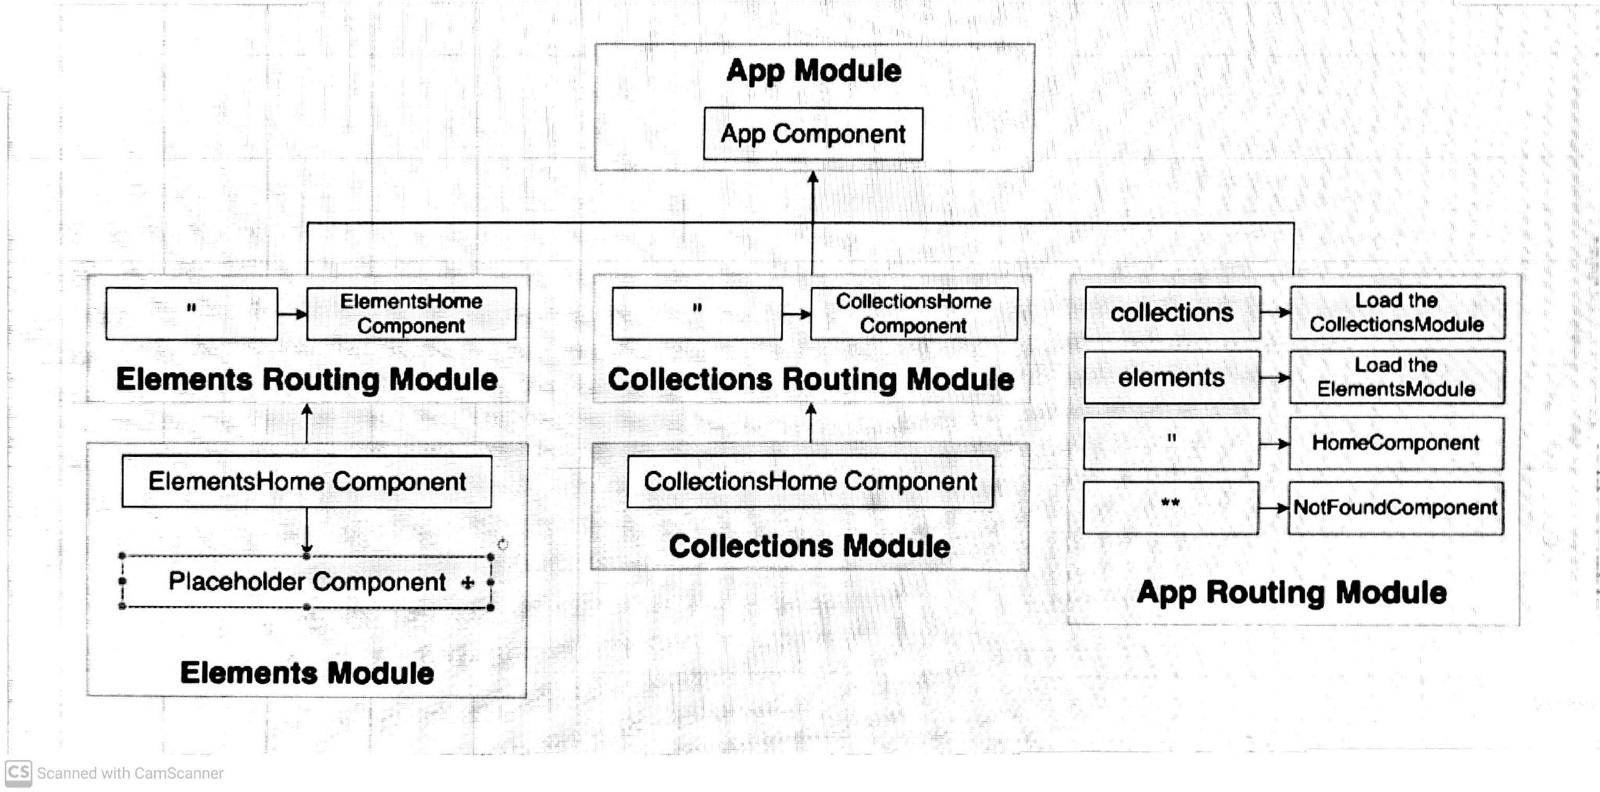
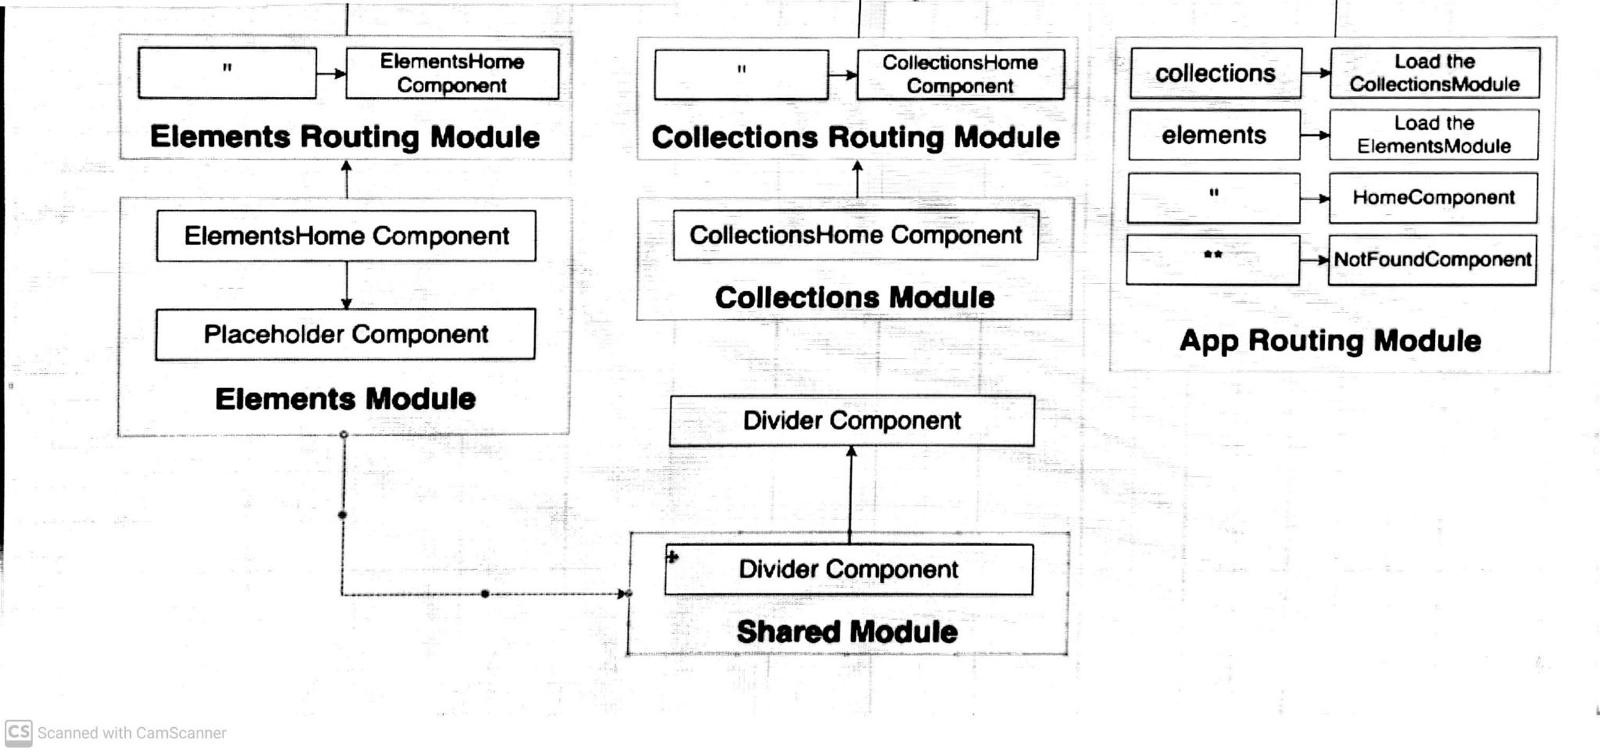
widget module (reusable componebt across all modules)

diff --git a/angular/modulesystem/src/app/elements/elements.module.ts b/angular/modulesystem/src/app/elements/elements.module.ts
@@ -5,6 +5,7 @@ import { ElementsRoutingModule } from './elements-routing.module';
 import { ElementsHomeComponent } from './elements-home/elements-home.component';
 import { PlaceholderComponent } from './placeholder/placeholder.component';
 import { TimesDirective } from './times.directive';
+import { SharedModule } from '../shared/shared.module';
 
 
 @NgModule({
@@ -15,7 +16,8 @@ import { TimesDirective } from './times.directive';
   imports: [
     CommonModule,
     ElementsRoutingModule,
-    TimesDirective
+    TimesDirective,
+    SharedModule
   ],
   exports: []
 })

diff --git a/angular/modulesystem/src/app/shared/shared.module.ts b/angular/modulesystem/src/app/shared/shared.module.ts
@@ -1,12 +1,16 @@
 import { NgModule } from '@angular/core';
 import { CommonModule } from '@angular/common';
+import { DividerComponent } from './divider/divider.component';
 
 
 
 @NgModule({
-  declarations: [],
+  declarations: [DividerComponent],
   imports: [
     CommonModule
+  ],
+  exports: [
+    DividerComponent
   ]
 })
 export class SharedModule { }

diff --git a/angular/modulesystem/src/app/shared/divider/divider.component.ts b/angular/modulesystem/src/app/shared/divider/divider.component.ts
@@ -2,9 +2,9 @@ import { Component } from '@angular/core';
 
 @Component({
   selector: 'app-divider',
-  imports: [],
   templateUrl: './divider.component.html',
-  styleUrl: './divider.component.css'
+  styleUrl: './divider.component.css',
+  standalone: false
 })
 export class DividerComponent {
 

diff --git a/angular/modulesystem/src/app/elements/elements-home/elements-home.component.html b/angular/modulesystem/src/app/elements/elements-home/elements-home.component.html
@@ -1,5 +1,4 @@
-<h1>Placeholder Component</h1>
-<div class="ui divider"></div>
+<app-divider />
 <app-placeholder [lines]="10" />
 <!-- placing header as a property here also works -->
 <!-- <app-placeholder [header]="false" /> -->

diff --git a/angular/modulesystem/src/app/elements/elements-home/elements-home.component.ts b/angular/modulesystem/src/app/elements/elements-home/elements-home.component.ts
@@ -1,4 +1,5 @@
 import { Component } from '@angular/core';
+import { DividerComponent } from '../../shared/divider/divider.component';
 
 @Component({
   selector: 'app-elements-home',

diff --git a/angular/modulesystem/src/app/shared/divider/divider.component.html b/angular/modulesystem/src/app/shared/divider/divider.component.html
@@ -1,1 +1,5 @@
-<p>divider works!</p>
+<h1>
+    Customisable content
+</h1>
+<div class="ui divider"></div>
+  
